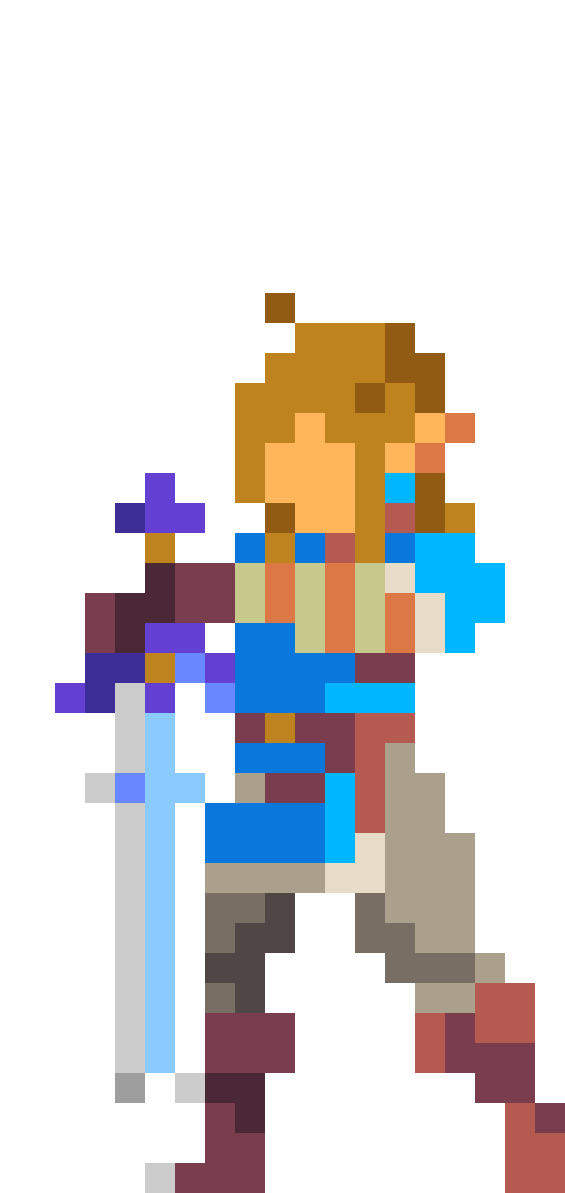
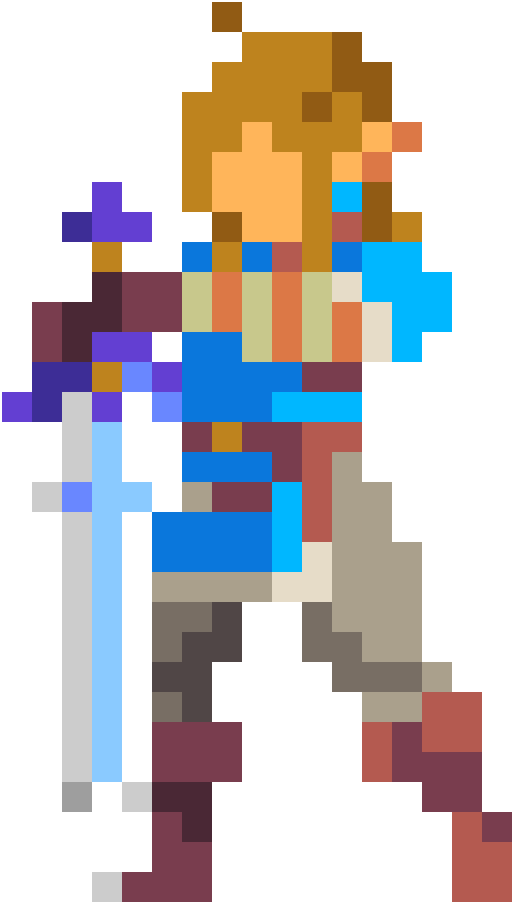
changed player dimensions, cropped player png used

diff --git a/js/app.js b/js/app.js
@@ -30,8 +30,8 @@ class Player {
   }
 
   draw() {
-    c.fillStyle = 'red'
-    c.fillRect(this.position.x, this.position.y, this.width, this.height)
+    // c.fillStyle = 'red'
+    // c.fillRect(this.position.x, this.position.y, this.width, this.height)
     if (this.image)
       c.drawImage(
         this.image,
@@ -76,8 +76,8 @@ class Jar {
   }
 
   draw() {
-     c.fillStyle = 'blue'
-     c.fillRect(this.position.x, this.position.y, this.width, this.height)
+     // c.fillStyle = 'blue'
+     // c.fillRect(this.position.x, this.position.y, this.width, this.height)
     if (this.image)
       c.drawImage(
         this.image,
